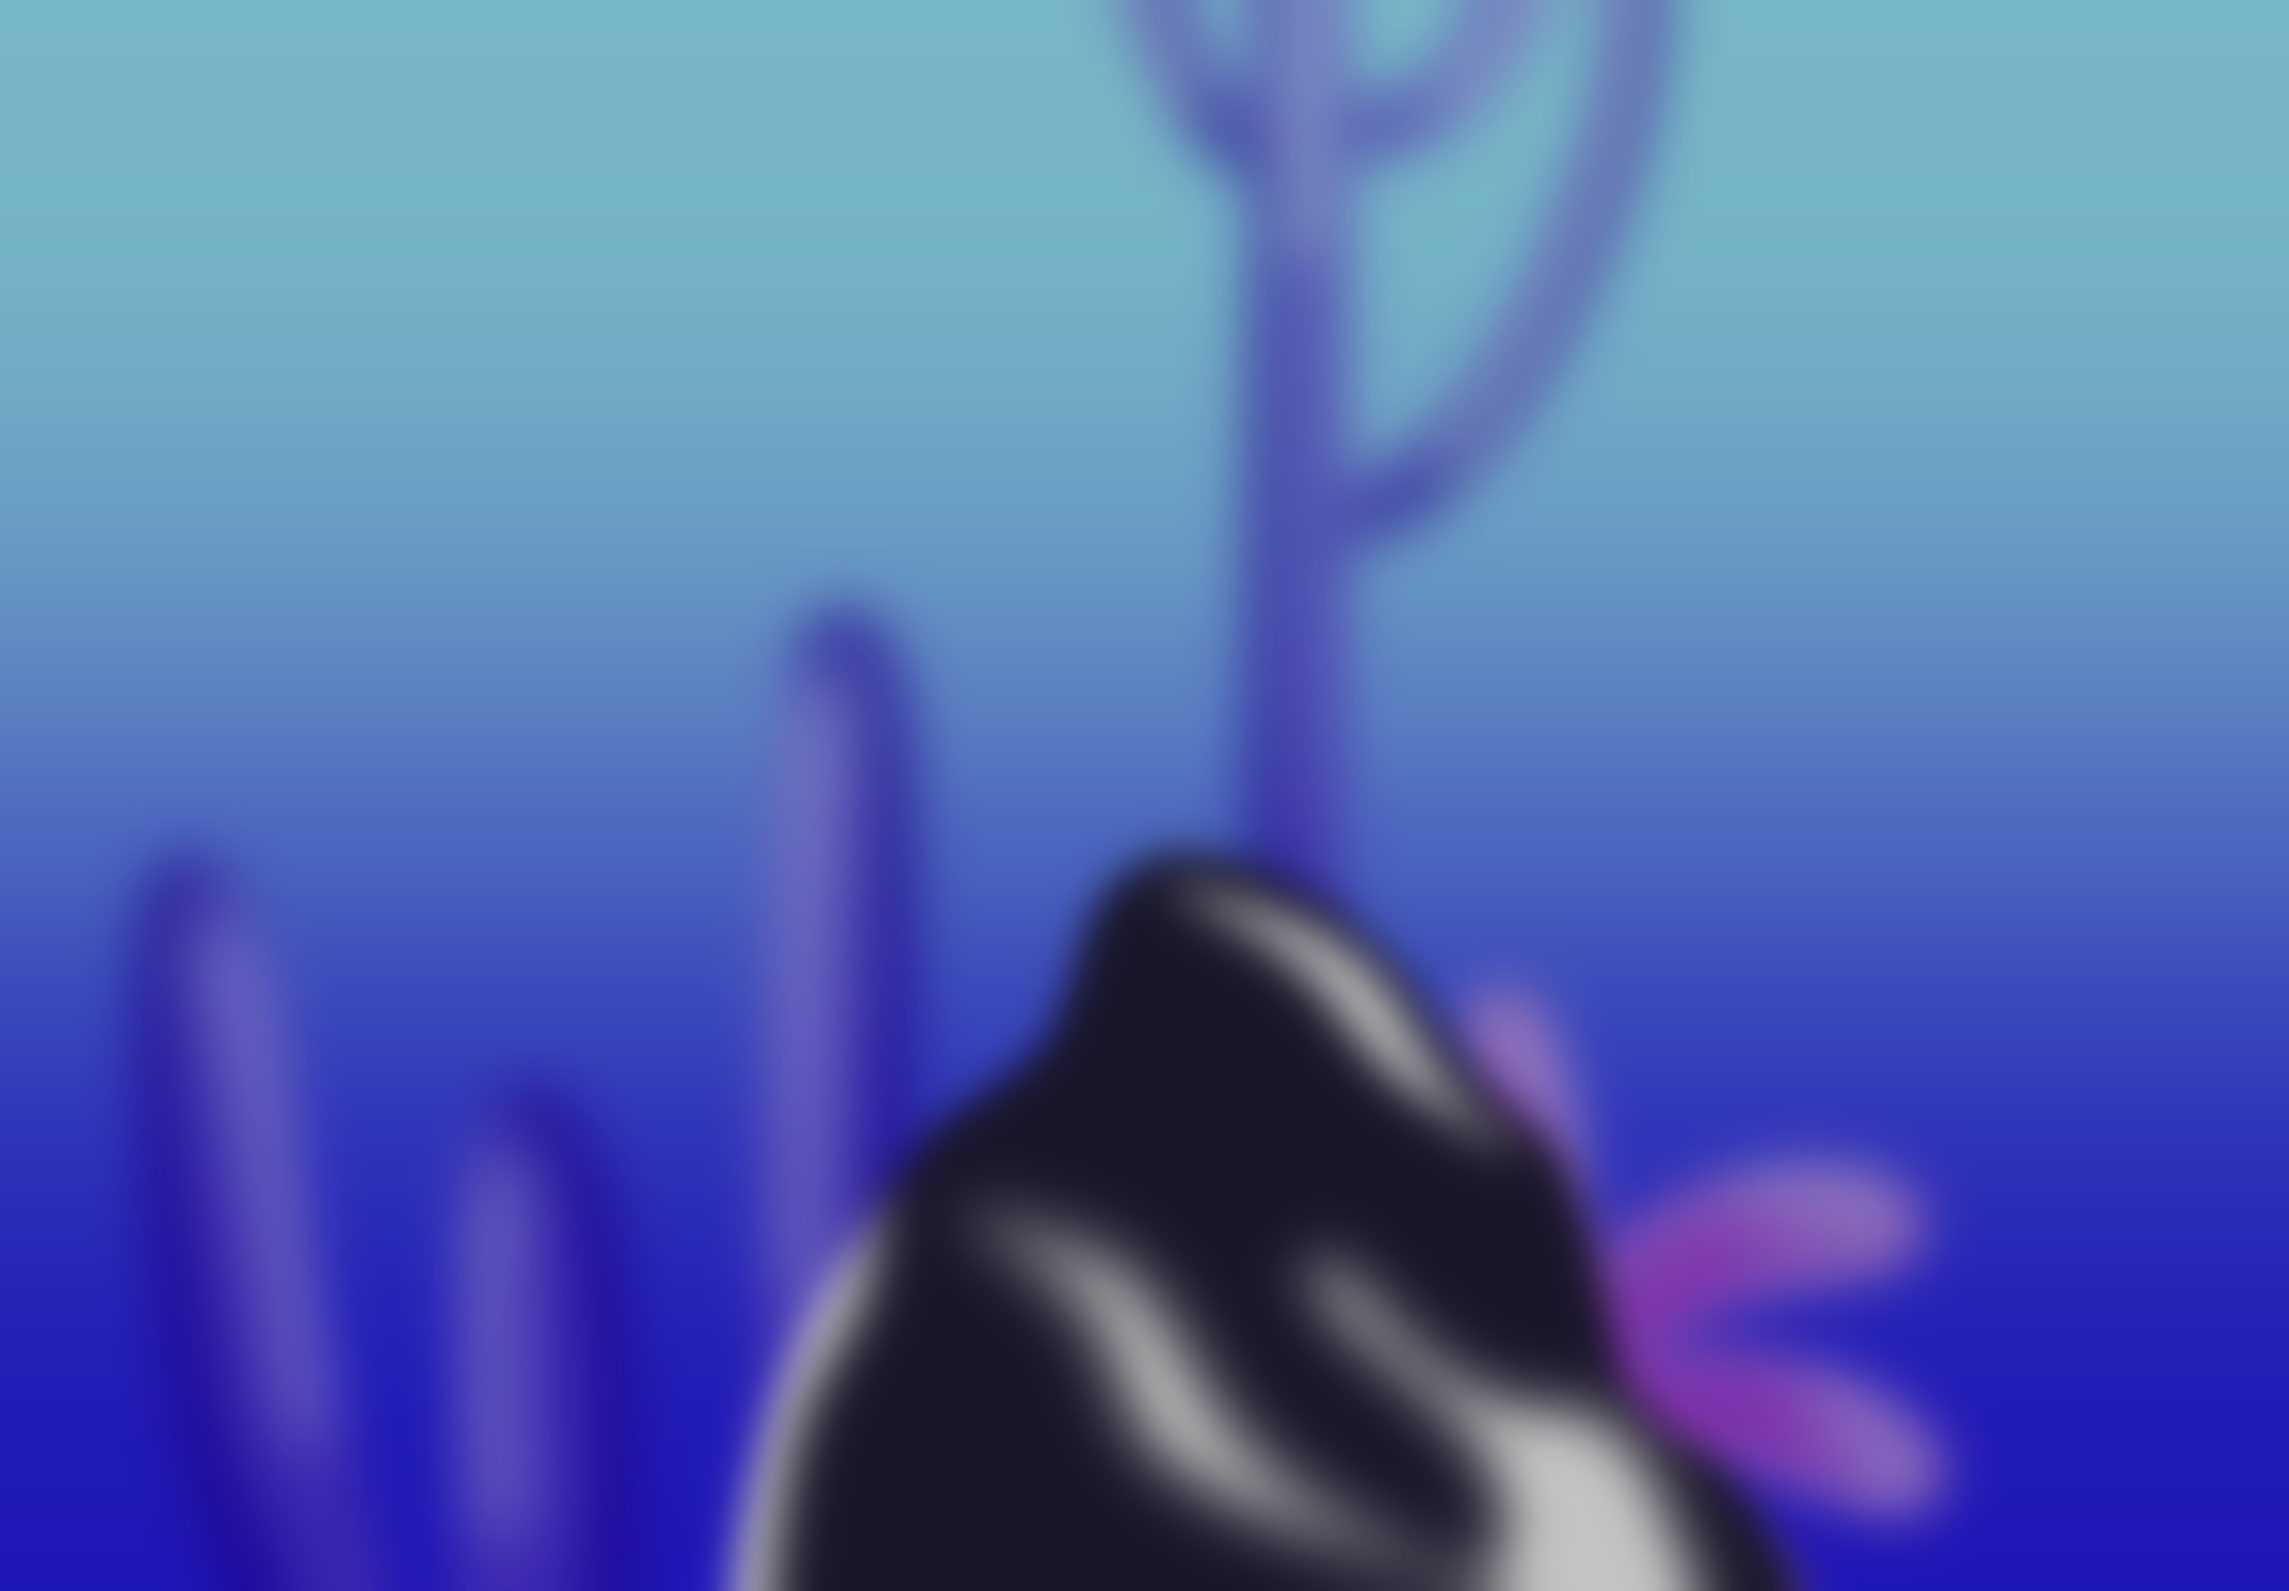
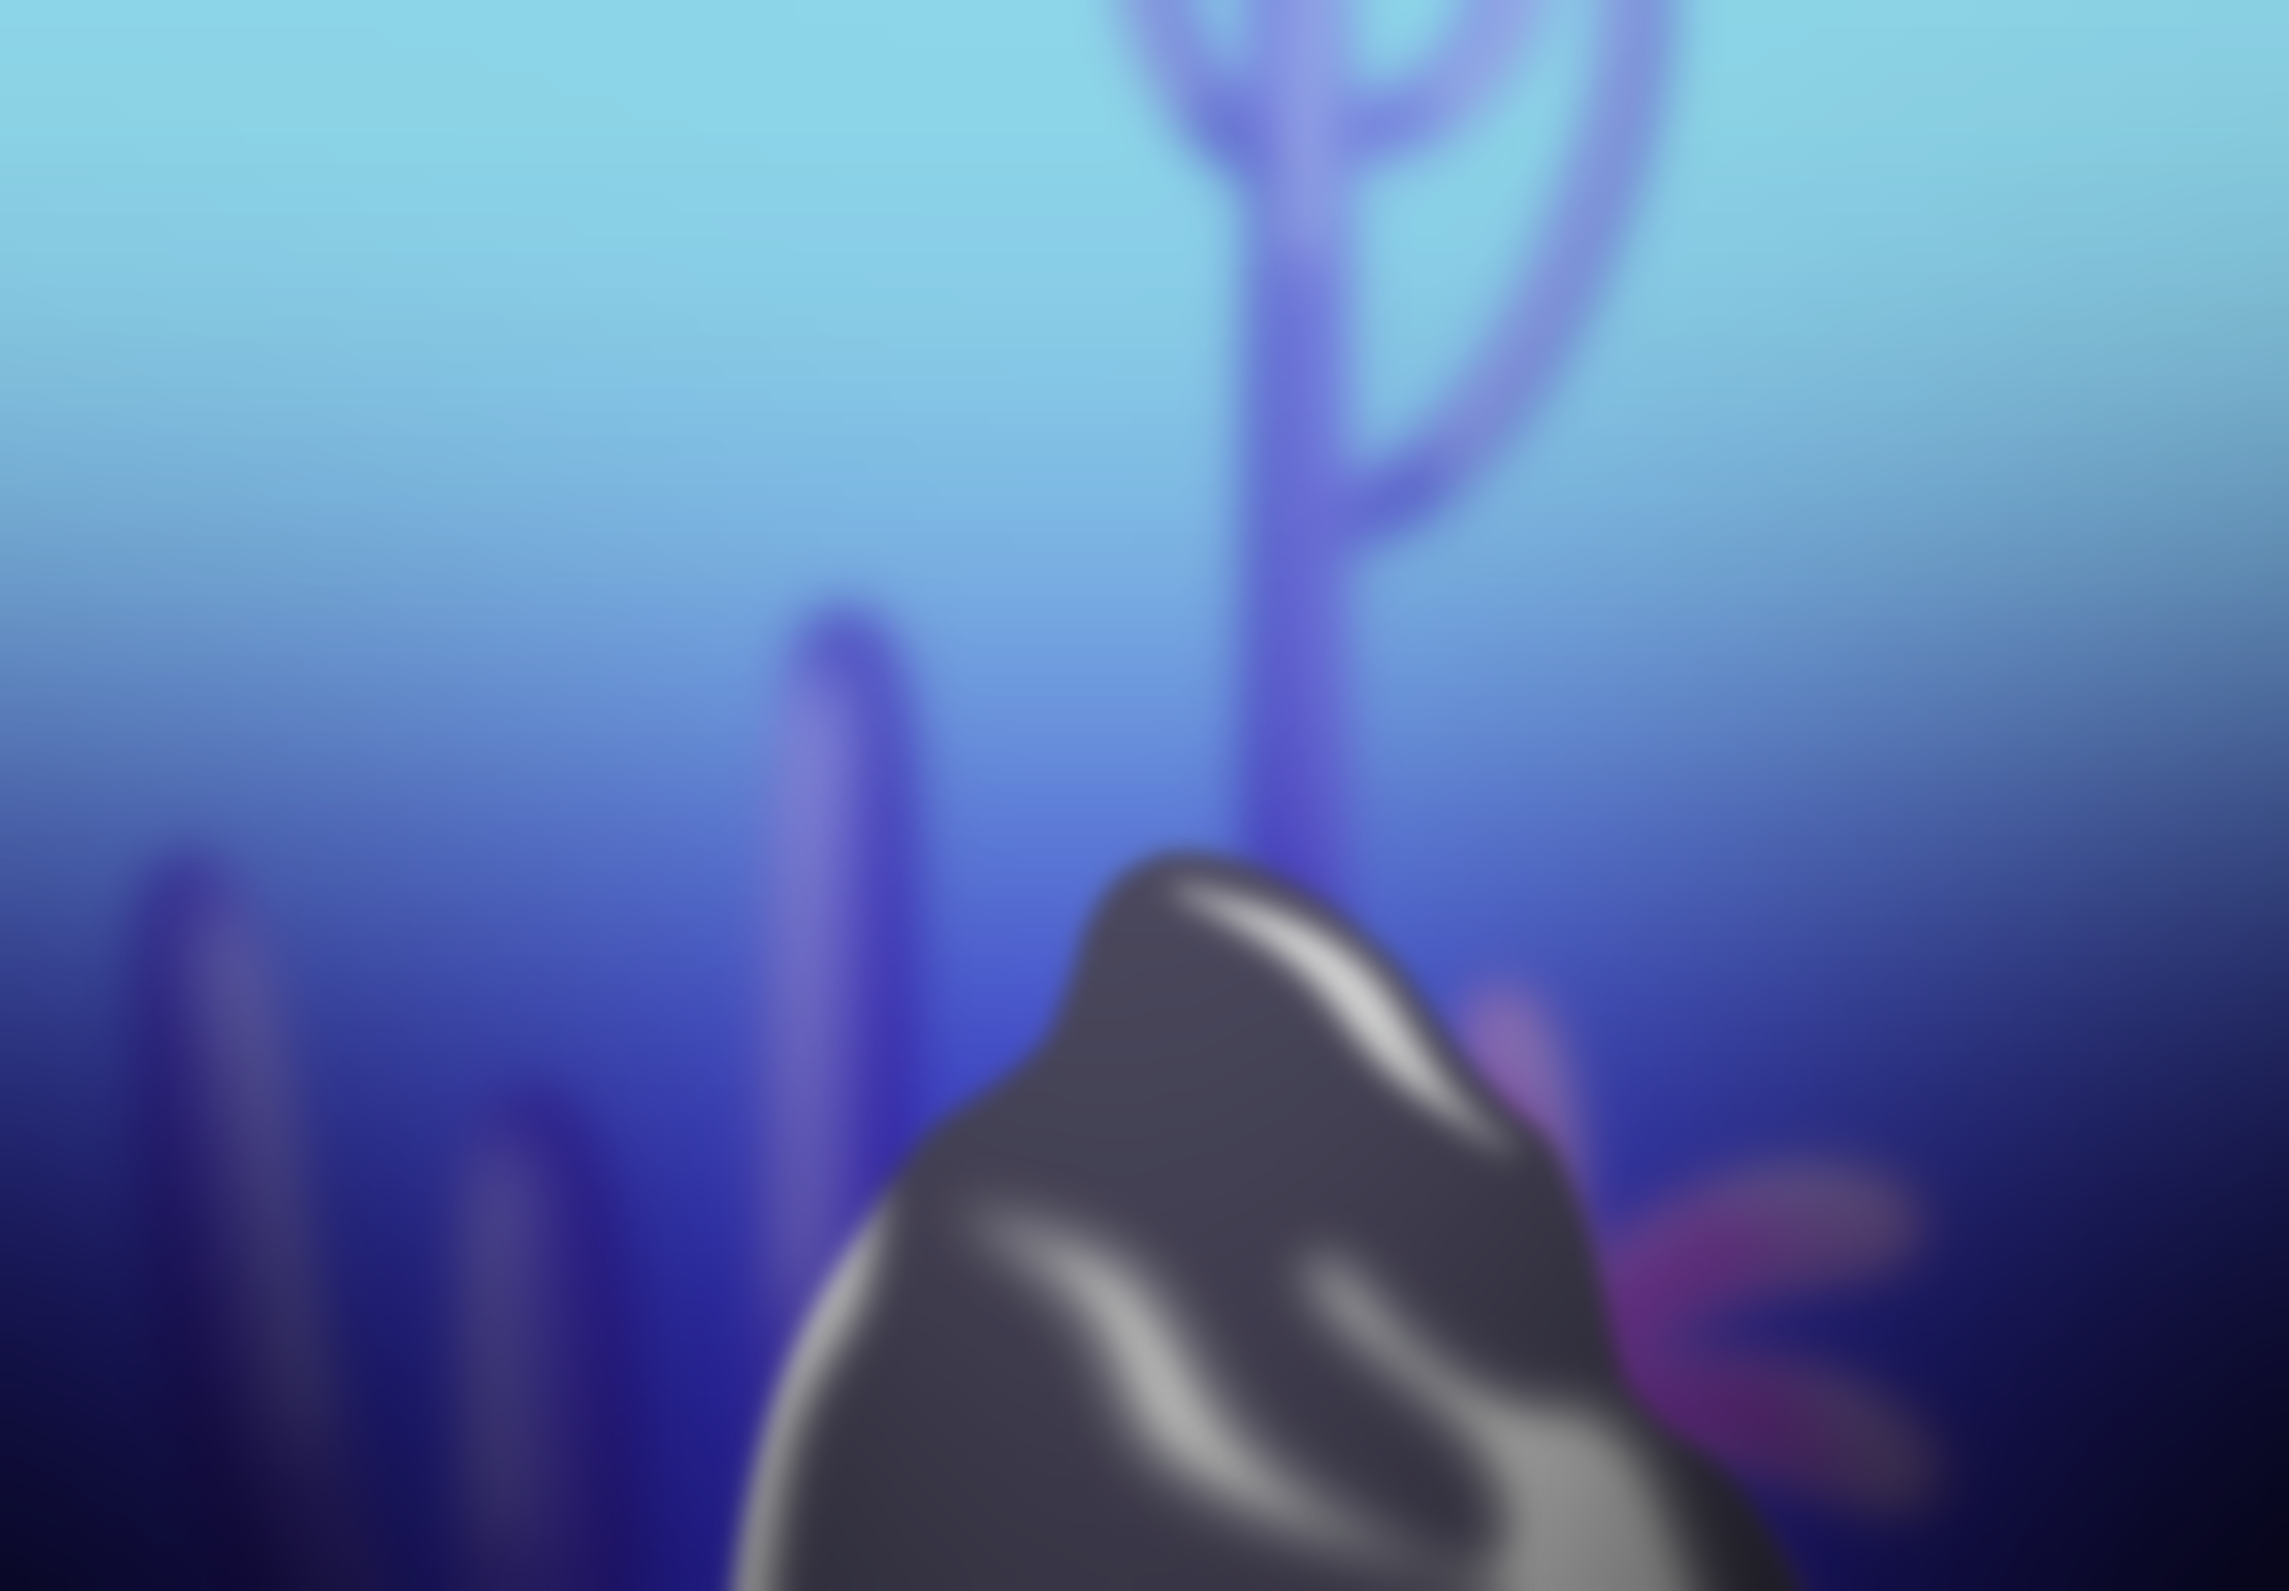
pic

diff --git a/index.html b/index.html
@@ -716,7 +716,9 @@
 
   <!-- scene17 cer -->
   <div class="container17" style="height: 1800vh">
-    <div class="relative h-screen bg-[#000000]">
+    <div
+      class="relative h-screen bg-cover bg-center bg-[url('asset/bg16.png')]"
+    >
       <div
         id="text171"
         class="absolute flex-col flex items-center text-center left-1/2 -translate-x-1/2 top-[50px]"
@@ -743,9 +745,10 @@
       </div>
     </div>
   </div>
-  <audio autoplay loop>
+
+  <!-- <audio autoplay loop>
     <source src="asset/andromeda.mp3" type="audio/mp3" />
-  </audio>
+  </audio> -->
 </body>
 <footer>
   <script src="s1.js"></script>
